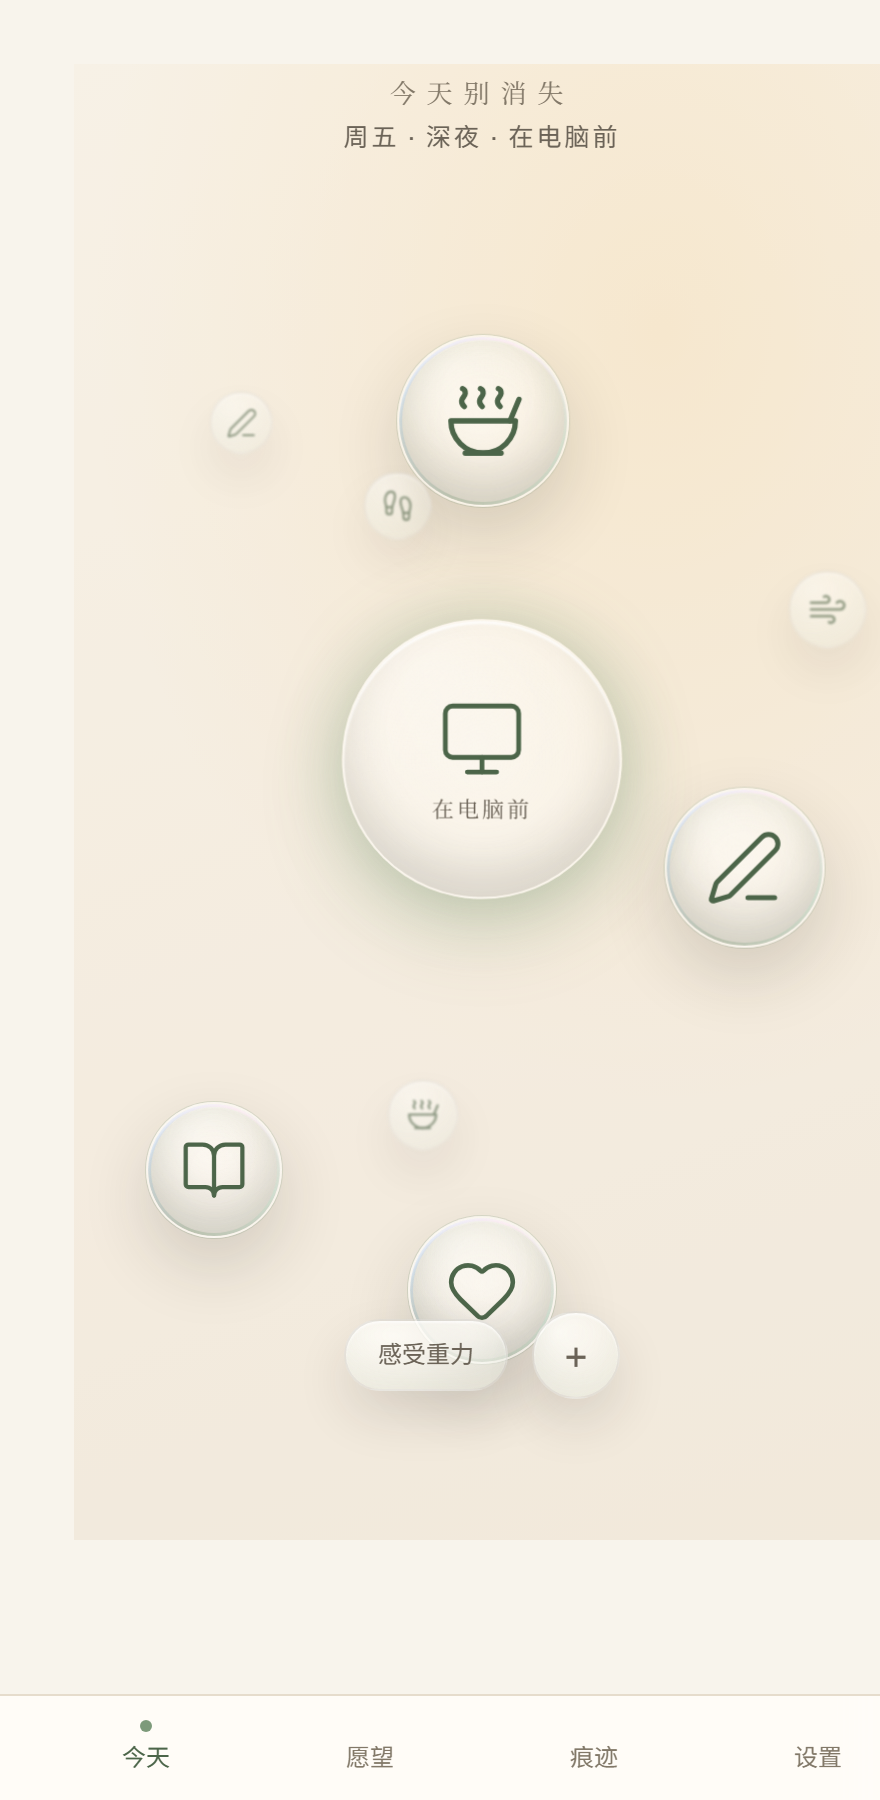
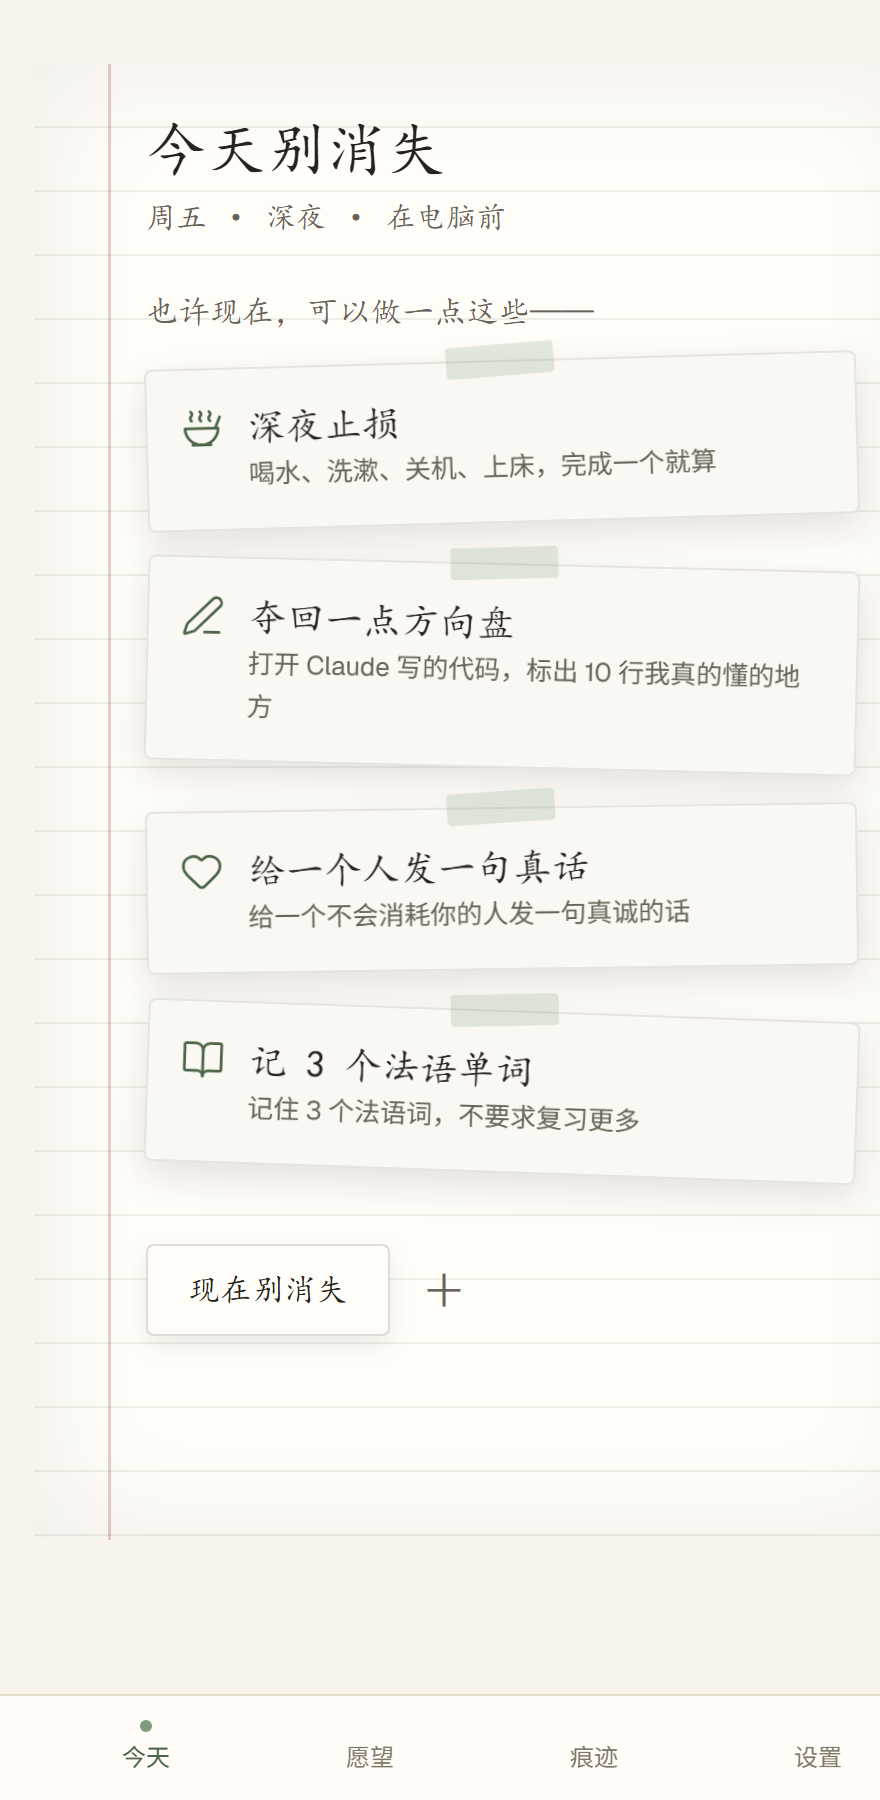
craft 2: Warm-paper / field-notebook Home (PaperHome)
- Counter-aesthetic to the glass field: a ruled-paper sheet with tilted hand-laid
  note cards (.paper / .paper-note / --font-hand brush-script); same recommend +
  do-a-little → trace loop; a written ✍ trace line lands on the page
- New paperHome.test.tsx; 216 tests; typecheck clean; build green

diff --git a/components/home/PaperHome.tsx b/components/home/PaperHome.tsx
@@ -1,0 +1,145 @@
+"use client";
+
+import { useEffect, useState } from "react";
+import Link from "next/link";
+import type { LocationType, Opportunity } from "@/lib/types";
+import { useStore, findSeed } from "@/lib/store";
+import { recommend } from "@/lib/scoring";
+import { buildAmbientContext, guessLocation, ambientLabel } from "@/lib/ambient";
+import { buildTrace, type CompletionKind } from "@/lib/traceGenerator";
+import { copy } from "@/lib/copy";
+import { cx } from "@/lib/utils";
+import { CategoryGlyph } from "./glyphs";
+import BreathingCard from "@/components/design/BreathingCard";
+import SoftButton from "@/components/design/SoftButton";
+
+function isMobileDevice(): boolean {
+  if (typeof navigator === "undefined") return false;
+  return /Mobi|Android|iPhone|iPad|iPod/i.test(navigator.userAgent) || navigator.maxTouchPoints > 1;
+}
+
+const tilts = ["-1.6deg", "1.4deg", "-0.8deg", "2deg"];
+
+/**
+ * The "Calm Ritual" Home — a contrasting aesthetic to the glass field. A warm
+ * ruled-paper sheet; today's wishes are hand-laid notes you can do, written in a
+ * brush-script face. Tactile, slow, intentional. Same loop underneath: tap a
+ * note → do a little → it leaves a trace line on the page.
+ */
+export default function PaperHome() {
+  const hydrated = useStore((s) => s.hydrated);
+  const seeds = useStore((s) => s.seeds);
+  const lastPick = useStore((s) => s.lastPick);
+  const addTrace = useStore((s) => s.addTrace);
+  const setSeedStatus = useStore((s) => s.setSeedStatus);
+
+  const [mounted, setMounted] = useState(false);
+  const [now, setNow] = useState<Date | null>(null);
+  const [location, setLocation] = useState<LocationType>("anywhere");
+  const [opps, setOpps] = useState<Opportunity[]>([]);
+  const [selected, setSelected] = useState<Opportunity | null>(null);
+  const [doneSeedIds, setDoneSeedIds] = useState<string[]>([]);
+  const [justTrace, setJustTrace] = useState("");
+
+  useEffect(() => {
+    const d = new Date();
+    const loc = guessLocation(d, isMobileDevice());
+    setNow(d);
+    setLocation(loc);
+    setMounted(true);
+  }, []);
+
+  useEffect(() => {
+    if (!mounted || !now) return;
+    const ctx = buildAmbientContext({ now, isMobile: isMobileDevice(), locationHint: location, energy: lastPick.energy });
+    setOpps(recommend(seeds, ctx, { limit: 4 }));
+    // eslint-disable-next-line react-hooks/exhaustive-deps
+  }, [mounted, now, seeds, location, lastPick.energy]);
+
+  if (!mounted || !hydrated || !now) return null;
+  const shown = opps.filter((o) => !doneSeedIds.includes(o.seedId));
+
+  function complete(o: Opportunity, kind: CompletionKind) {
+    setSelected(null);
+    if (kind === "skipped") return;
+    const seed = findSeed(seeds, o.seedId);
+    const trace = buildTrace(seed, kind, o.id);
+    addTrace(trace);
+    if (seed && kind === "completed") setSeedStatus(seed.id, "sleeping");
+    setJustTrace(trace.text);
+    setDoneSeedIds((d) => [...d, o.seedId]);
+  }
+
+  return (
+    <div className="paper relative -mx-5 min-h-[82dvh] px-7 pb-12 pt-6">
+      <header className="pl-7">
+        <h1 className="hand text-[30px] leading-tight text-[var(--text)]">今天别消失</h1>
+        <p className="hand mt-1 text-[15px] text-[var(--text-secondary)]">{ambientLabel(now, location)}</p>
+      </header>
+
+      <p className="hand mt-6 pl-7 text-[16px] text-[var(--text-secondary)]">也许现在，可以做一点这些——</p>
+
+      <ul className="mt-3 flex flex-col gap-5 pl-7 pr-2">
+        {shown.map((o, i) => {
+          const seed = findSeed(seeds, o.seedId);
+          if (!seed) return null;
+          return (
+            <li key={o.id} style={{ transform: `rotate(${tilts[i % tilts.length]})` }}>
+              <button
+                onClick={() => setSelected(o)}
+                className="paper-note tdd-rise flex w-full items-start gap-3 rounded-[4px] p-4 text-left transition-transform active:scale-[0.99]"
+              >
+                <CategoryGlyph category={seed.categories[0]} size={22} className="mt-0.5 text-[var(--accent-text)]" />
+                <span className="flex flex-col">
+                  <span className="hand text-[19px] leading-snug text-[var(--text)]">{seed.title}</span>
+                  <span className="text-[13px] leading-relaxed text-[var(--text-secondary)]">{o.suggestedAction}</span>
+                </span>
+              </button>
+            </li>
+          );
+        })}
+      </ul>
+
+      {justTrace && (
+        <p className="hand tdd-rise mt-7 pl-7 text-[17px] leading-relaxed text-[var(--accent-text)]">
+          ✍ {justTrace}
+        </p>
+      )}
+
+      <div className="mt-9 flex items-center gap-4 pl-7">
+        <Link
+          href="/now"
+          className="hand rounded-[4px] border border-[var(--text)]/15 bg-[var(--surface)] px-5 py-2.5 text-[16px] text-[var(--text)] shadow-[0_4px_12px_rgba(0,0,0,0.08)]"
+        >
+          {copy.home.primary}
+        </Link>
+        <Link href="/add" aria-label="接住一个新愿望" className="hand text-[22px] text-[var(--text-secondary)]">＋</Link>
+      </div>
+
+      {selected && (() => {
+        const seed = findSeed(seeds, selected.seedId);
+        if (!seed) return null;
+        return (
+          <div className="fixed inset-0 z-50 flex items-end justify-center sm:items-center" role="dialog" aria-modal="true">
+            <button aria-label="关闭" onClick={() => setSelected(null)} className="absolute inset-0 bg-black/30" />
+            <BreathingCard rise className="relative m-3 flex w-full max-w-md flex-col gap-4">
+              <div className="flex items-center gap-2">
+                <CategoryGlyph category={seed.categories[0]} size={22} />
+                <h3 className="hand text-[20px] font-medium text-[var(--text)]">{seed.title}</h3>
+              </div>
+              <p className="text-[14px] leading-relaxed text-[var(--text-secondary)]">{selected.suggestedAction}</p>
+              <div className="rounded-2xl bg-[var(--surface-soft)] p-3 text-[13px] leading-relaxed text-[var(--text-secondary)]">
+                {selected.reason}
+              </div>
+              <div className="flex flex-col gap-2">
+                <SoftButton full onClick={() => complete(selected, "completed")}>{copy.completion.done}</SoftButton>
+                <SoftButton full variant="soft" onClick={() => complete(selected, "partial")}>{copy.completion.partial}</SoftButton>
+                <SoftButton full variant="ghost" onClick={() => setSelected(null)}>{copy.home.bubbleLater}</SoftButton>
+              </div>
+            </BreathingCard>
+          </div>
+        );
+      })()}
+    </div>
+  );
+}

diff --git a/app/globals.css b/app/globals.css
@@ -198,6 +198,55 @@ body {
   font-family: var(--font-serif);
 }
 
+/* ── Calm Ritual: warm paper / field notebook ─────────────────── */
+:root {
+  --font-hand: "Kaiti SC", "STKaiti", "KaiTi", "Xingkai SC", cursive,
+    var(--font-serif);
+}
+.hand {
+  font-family: var(--font-hand);
+}
+
+/* A warm ruled-paper sheet with a soft margin line. */
+.paper {
+  background-color: var(--surface);
+  background-image:
+    linear-gradient(
+      90deg,
+      transparent 37px,
+      color-mix(in srgb, #c98a8a 42%, transparent) 37px,
+      color-mix(in srgb, #c98a8a 42%, transparent) 38.5px,
+      transparent 38.5px
+    ),
+    repeating-linear-gradient(
+      transparent,
+      transparent 31px,
+      color-mix(in srgb, var(--accent) 14%, transparent) 31px,
+      color-mix(in srgb, var(--accent) 14%, transparent) 32px
+    );
+  box-shadow: inset 0 0 60px color-mix(in srgb, var(--text) 7%, transparent);
+}
+
+/* A hand-laid paper note, slightly tilted, with a strip of washi tape. */
+.paper-note {
+  position: relative;
+  background: color-mix(in srgb, var(--surface) 95%, var(--accent) 5%);
+  border: 1px solid color-mix(in srgb, var(--text) 9%, transparent);
+  box-shadow: 0 7px 18px color-mix(in srgb, var(--text) 12%, transparent);
+}
+.paper-note::before {
+  content: "";
+  position: absolute;
+  left: 50%;
+  top: -9px;
+  width: 54px;
+  height: 16px;
+  transform: translateX(-50%) rotate(-3deg);
+  background: color-mix(in srgb, var(--accent) 30%, transparent);
+  border-radius: 2px;
+  opacity: 0.7;
+}
+
 /* Slow, ambient aurora behind the composition. */
 .home-aurora {
   position: absolute;

diff --git a/tests/paperHome.test.tsx b/tests/paperHome.test.tsx
@@ -1,0 +1,37 @@
+import { describe, it, expect, beforeEach, vi } from "vitest";
+import { render, screen, fireEvent, cleanup } from "@testing-library/react";
+import { useStore } from "@/lib/store";
+import { seedMockGarden } from "@/lib/mockSeeds";
+import { copy } from "@/lib/copy";
+import PaperHome from "@/components/home/PaperHome";
+
+vi.mock("next/navigation", () => ({
+  useRouter: () => ({ push: vi.fn() }),
+  usePathname: () => "/",
+}));
+
+beforeEach(() => {
+  window.localStorage.clear();
+  useStore.setState({ seeds: seedMockGarden(), traces: [], hydrated: true, lastPick: {} });
+});
+
+describe("PaperHome (Calm Ritual aesthetic)", () => {
+  it("lays out the wordmark, ambient line, and wish notes (→/now)", () => {
+    render(<PaperHome />);
+    expect(screen.getByText("今天别消失")).toBeTruthy();
+    expect(screen.getByText(/周[一二三四五六日]\s·/)).toBeTruthy();
+    expect(screen.getByRole("link", { name: copy.home.primary }).getAttribute("href")).toBe("/now");
+    cleanup();
+  });
+
+  it("tapping a note opens the sheet and completing writes a trace", () => {
+    render(<PaperHome />);
+    const titles = ["记 3 个法语单词", "亲手理解一个模块", "夺回一点方向盘", "坐一会野外", "吃一顿热饭", "给一个人发一句真话", "去市中心走走", "深夜止损"];
+    const note = titles.map((t) => screen.queryByText(t)).find(Boolean);
+    expect(note).toBeTruthy();
+    fireEvent.click(note!.closest("button")!);
+    fireEvent.click(screen.getByText(copy.completion.done));
+    expect(useStore.getState().traces.length).toBe(1);
+    cleanup();
+  });
+});

diff --git a/app/page.tsx b/app/page.tsx
@@ -1,8 +1,6 @@
-import { copy } from "@/lib/copy";
 import LateNightThemeOffer from "@/components/design/LateNightThemeOffer";
 import IntroCard from "@/components/IntroCard";
-import BubbleField from "@/components/home/BubbleField";
-import SceneBackground from "@/components/home/SceneBackground";
+import PaperHome from "@/components/home/PaperHome";
 
 export default async function HomePage({
   searchParams,
@@ -14,23 +12,14 @@ export default async function HomePage({
   const clean = shot === "1";
 
   return (
-    <div className="relative flex min-h-[82dvh] flex-col items-center overflow-hidden">
-      <SceneBackground />
-
-      <p className="serif relative z-30 pt-1 text-[13px] tracking-[0.42em] text-[var(--text-muted)]">
-        {copy.appTitle}
-      </p>
-
+    <div className="relative w-full">
       {!clean && (
-        <div className="relative z-30 w-full">
+        <div className="relative z-30 w-full px-5 pt-3">
           <IntroCard />
           <LateNightThemeOffer />
         </div>
       )}
-
-      <div className="relative z-10 w-full">
-        <BubbleField />
-      </div>
+      <PaperHome />
     </div>
   );
 }

diff --git a/docs/TIMELINE.md b/docs/TIMELINE.md
@@ -6,14 +6,15 @@ Repo: `[email redacted]:y344shi/luminous.git`  ·  app at `dreams/seize_the_day`
 
 ## Summary
 
-- **49** unique commits across **4** branches
+- **53** unique commits across **4** branches
 - span: **2026-06-25 → 2026-06-26**
 - directions + plan: [`docs/overnight-plan.md`](overnight-plan.md) · gallery: [`docs/GALLERY.md`](GALLERY.md)
 
-## branch `luminous-craft` — 47 commits  ·  2026-06-25 → 2026-06-26
+## branch `luminous-craft` — 48 commits  ·  2026-06-25 → 2026-06-26
 
 | date | commit | change |
 | --- | --- | --- |
+| 2026-06-26 | `43f77d8` | craft 1: Committed-history + richer Notion-loadable timeline |
 | 2026-06-26 | `a714805` | Docs: regenerate TIMELINE.md |
 | 2026-06-26 | `88aa84b` | Overnight machine: 3-direction plan, committed-history rule, timeline, gallery, shots |
 | 2026-06-26 | `d947dce` | Cycle 41: Lucide line-icons + scene-reflecting warm background |
@@ -62,10 +63,11 @@ Repo: `[email redacted]:y344shi/luminous.git`  ·  app at `dreams/seize_the_day`
 | 2026-06-25 | `4643eb6` | Add project guide + overnight tick playbook for autonomous cycles |
 | 2026-06-25 | `730b76f` | Cycle 1: 《今天别消失》web MVP — full core loop alive |
 
-## branch `luminous-glass` — 48 commits  ·  2026-06-25 → 2026-06-26
+## branch `luminous-glass` — 49 commits  ·  2026-06-25 → 2026-06-26
 
 | date | commit | change |
 | --- | --- | --- |
+| 2026-06-26 | `8c630f9` | glass 2: Caustic edge light (hue-shifting rim + sweeping glint) |
 | 2026-06-26 | `20f997c` | glass 1: Liquid-glass refraction (SVG turbulence + displacement) |
 | 2026-06-26 | `a714805` | Docs: regenerate TIMELINE.md |
 | 2026-06-26 | `88aa84b` | Overnight machine: 3-direction plan, committed-history rule, timeline, gallery, shots |
@@ -115,10 +117,12 @@ Repo: `[email redacted]:y344shi/luminous.git`  ·  app at `dreams/seize_the_day`
 | 2026-06-25 | `4643eb6` | Add project guide + overnight tick playbook for autonomous cycles |
 | 2026-06-25 | `730b76f` | Cycle 1: 《今天别消失》web MVP — full core loop alive |
 
-## branch `luminous-sense` — 48 commits  ·  2026-06-25 → 2026-06-26
+## branch `luminous-sense` — 50 commits  ·  2026-06-25 → 2026-06-26
 
 | date | commit | change |
 | --- | --- | --- |
+| 2026-06-26 | `711d4c0` | sense: fix shoot-home port band (Chrome ERR_UNSAFE_PORT on 3659) + valid sense.png |
+| 2026-06-26 | `beceffd` | sense 2: Parallax depth scene layer (pointer / device-tilt) |
 | 2026-06-26 | `ac4c13b` | sense 1: Scene wallpaper — richer mesh gradients + curated-image seam |
 | 2026-06-26 | `a714805` | Docs: regenerate TIMELINE.md |
 | 2026-06-26 | `88aa84b` | Overnight machine: 3-direction plan, committed-history rule, timeline, gallery, shots |

diff --git a/docs/iteration-log.md b/docs/iteration-log.md
@@ -927,3 +927,12 @@ What still feels wrong / not done yet:
   project dir), and now writes a **Summary** (unique commits, branches, date
   span, links to plan + gallery) above per-branch tables. Added `npm run timeline`.
 - Committed-history rule already in CLAUDE.md; this makes the artifact first-class.
+
+---
+
+## craft 2 (C2): Warm-paper / field-notebook Home
+- New `PaperHome` (+ `.paper` ruled sheet, `.paper-note` taped cards, `--font-hand`
+  brush-script): today's wishes are hand-laid notes on warm ruled paper; tap a note
+  → do a little → a "✍ 今天没有消失…" line is written on the page. Same recommend +
+  trace loop underneath. craft Home now uses it (a counter-aesthetic to glass).
+- New paperHome.test.tsx (2); 216 tests green; typecheck + build clean.

diff --git a/docs/overnight-plan.md b/docs/overnight-plan.md
@@ -37,7 +37,7 @@ push the branch. Small > grand. Revert rather than leave red.
 
 ## C · Calm Ritual  (branch `luminous-craft`)
 - [x] C1. Committed-history discipline + Notion-loadable `docs/TIMELINE.md` (now with a Summary: commit count, branches, date span, plan/gallery links); `npm run timeline`; robust from any cwd. _(craft 1)_
-- [ ] C2. A second aesthetic: a "warm paper / field-notebook" Home — tactile, hand-drawn, slow — to compare against glass.
+- [x] C2. Warm-paper / field-notebook Home (`PaperHome`): a ruled-paper sheet, wishes as tilted hand-laid notes in a brush-script face (`.hand`), same loop underneath. A real counter-aesthetic to glass. _(craft 2)_
 - [ ] C3. Gentle haptics + optional soft chime on complete (`navigator.vibrate`).
 - [ ] C4. Shareable keepsake: render today's trace to a beautiful image card (canvas → PNG).
 - [ ] C5. Performance + a11y on the field: pause rAF when hidden, reduced-motion static layout, focus order, caps.